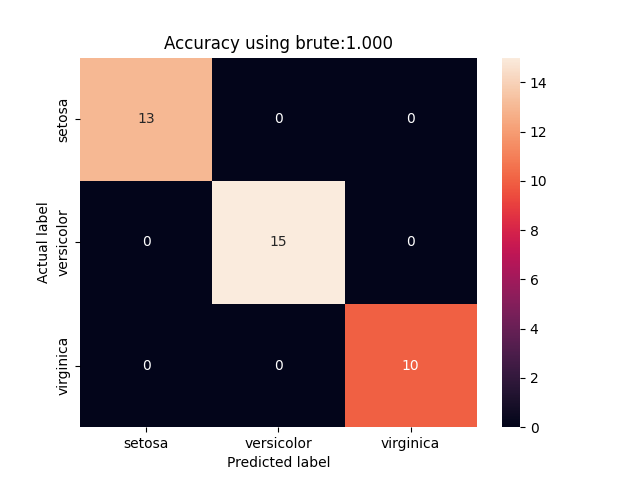
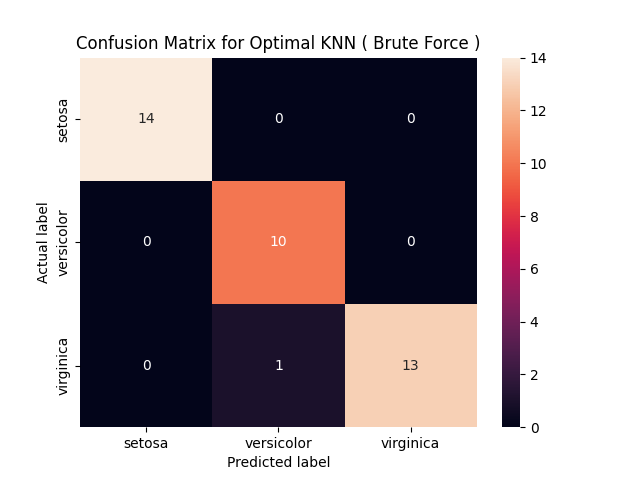
c-up

diff --git a/week-3/knn-brute.py b/week-3/knn-brute.py
@@ -40,7 +40,7 @@ cm_df = pd.DataFrame(cm,
                      )
 
 sns.heatmap(cm_df, annot=True)
-plt.title('Accuracy using brute:{0:.3f}'.format(accuracy_score(y_test, y_pred)))
+plt.title('Confusion Matrix for Optimal KNN ( Brute Force )')
 plt.ylabel('Actual label')
 plt.xlabel('Predicted label')
 plt.show()

diff --git a/week-3/knn-fixed.py b/week-3/knn-fixed.py
@@ -32,7 +32,7 @@ cm_df = pd.DataFrame(cm,
                      )
 
 sns.heatmap(cm_df, annot=True)
-plt.title('Accuracy using KNN :{0:.3f}'.format(accuracy_score(y_test, y_pred)))
+plt.title('Confusion Matrix for KNN')
 plt.ylabel('Actual label')
 plt.xlabel('Predicted label')
 plt.show()
